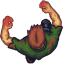
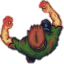
split VectorCollision code & zombie's graph moveStep

diff --git a/src/scenes/MainScene.java b/src/scenes/MainScene.java
@@ -47,12 +47,15 @@ public class MainScene extends Scene {
     private Renderer hpRenderer;
     private ScoreCalculator scoreCal;
     private Effect gameOverEffect;
+    private Delay stateChage;
 
     public MainScene(SceneController sceneController) {
         super(sceneController);
         this.allObjects = new ArrayList<GameObject>();
         this.hpFrameRenderer = new Renderer(0, new int[0], 0, ImagePath.HP[0]);
         this.hpRenderer = new Renderer(0, new int[0], 0, ImagePath.HP[2]); // HP 第三張圖是 debug 用
+        this.stateChage = new Delay(20);
+        this.stateChage.start();
     }
 
     @Override
@@ -103,7 +106,11 @@ public class MainScene extends Scene {
         ammoUpdate();//Ammo必須比敵人早更新
         enemyUpdate();
         for (int i = 0; i < this.allObjects.size(); i++) {
-            this.allObjects.get(i).update();
+            if (i == this.allObjects.size() - 1) {
+                this.allObjects.get(0).update();
+            } else {
+                this.allObjects.get(i + 1).update();
+            }
             if (this.view.isCollision(this.allObjects.get(i))) {
                 if (!(this.view.stillSeeing(this.allObjects.get(i)))) {
                     this.view.saw(this.allObjects.get(i));
@@ -130,7 +137,7 @@ public class MainScene extends Scene {
             float height = Global.UNIT_Y;
             if (this.maps.canDeploy(x, y, width, height)) {
                 Enemy enemy = new Enemy("circle", x, y, 5,
-                        this.actor, 58, ImagePath.ENEMY);
+                        this.actor, 59, ImagePath.ENEMY);
                 this.enemys.add(enemy);
                 this.allObjects.add(enemy);
                 enemy.setAllObject(this.allObjects);
@@ -153,32 +160,33 @@ public class MainScene extends Scene {
 
     //子彈測試更新中
     public void ammoUpdate() {
-        if (Global.mouseState == 1) {
-            boolean create = true;
-            if (this.ammos == null) {
-                Ammo ammo = new Ammo("circle", this.actor.getCenterX() - Global.UNIT_MIN, this.actor.getCenterY() - Global.UNIT_MIN, this.actor, 60, ImagePath.BULLET);
-                this.ammos.add(ammo);
-                this.allObjects.add(ammo);
-                ammo.setAllObjects(this.allObjects);
-            } else {
-                for (int i = 0; i < this.ammos.size(); i++) {
-                    if (this.ammos.get(i).getIsShootOut() == false) {
-                        this.ammos.get(i).setIsShootOut(create);
-                        this.ammos.get(i).setNewStart();
-                        create = false;
-                        break;
-                    } else {
-                        continue;
-                    }
-                }
-                if (create) {
+        if (Global.mouseState) {
+            if (this.stateChage.isTrig()) {
+                boolean create = true;
+                if (this.ammos == null) {
                     Ammo ammo = new Ammo("circle", this.actor.getCenterX() - Global.UNIT_MIN, this.actor.getCenterY() - Global.UNIT_MIN, this.actor, 60, ImagePath.BULLET);
                     this.ammos.add(ammo);
                     this.allObjects.add(ammo);
                     ammo.setAllObjects(this.allObjects);
+                } else {
+                    for (int i = 0; i < this.ammos.size(); i++) {
+                        if (this.ammos.get(i).getIsShootOut() == false) {
+                            this.ammos.get(i).setIsShootOut(create);
+                            this.ammos.get(i).setNewStart();
+                            create = false;
+                            break;
+                        } else {
+                            continue;
+                        }
+                    }
+                    if (create) {
+                        Ammo ammo = new Ammo("circle", this.actor.getCenterX() - Global.UNIT_MIN, this.actor.getCenterY() - Global.UNIT_MIN, this.actor, 60, ImagePath.BULLET);
+                        this.ammos.add(ammo);
+                        this.allObjects.add(ammo);
+                        ammo.setAllObjects(this.allObjects);
+                    }
                 }
             }
-//            Global.mouseState++;
         }
 //        System.out.println("ammo size: "+this.ammos.size());
     }
@@ -348,12 +356,14 @@ public class MainScene extends Scene {
 
         @Override
         public void mouseTrig(MouseEvent e, CommandSolver.MouseState state, long trigTime) {
-            if (state == CommandSolver.MouseState.PRESSED || state == CommandSolver.MouseState.DRAGGED) {
-                Global.mouseState = 1;
+            if (state == CommandSolver.MouseState.PRESSED) {
+                Global.mouseState = true;
+                MainScene.this.stateChage.click();
+            } else if (state == CommandSolver.MouseState.DRAGGED) {
+                Global.mouseState = true;
             } else if (state == CommandSolver.MouseState.CLICKED || state == CommandSolver.MouseState.MOVED || state == CommandSolver.MouseState.RELEASED) {
-                Global.mouseState = 0;
+                Global.mouseState = false;
             }
         }
-
     }
 }

diff --git a/src/util/VectorCollision.java b/src/util/VectorCollision.java
@@ -35,8 +35,8 @@ public class VectorCollision {
     public VectorCollision(GameObject self, float dx, float dy) {
         setSelf(self);
         setDXY(dx, dy);
-        setDivisor(100);
-        setMultiple(3f);
+        setDivisor(20);
+        setMultiple(2f);
         setIsHurt(false);
         setAllObjects(null);
     }
@@ -90,10 +90,6 @@ public class VectorCollision {
         for (int i = 0; i < this.divisor; i++) {
             for (int k = 0; k < this.allObjects.size(); k++) {
                 another = this.allObjects.get(k);
-                if (another.getType().equals(this.self.getType())) {//跳過自己 不判斷
-                    continue;
-                }
-
                 boolean escape = false;
                 for (int z = 0; z < Global.EXCLUDE.length; z++) {//排除型別的判斷 //目前 不和"小地圖"判斷 
                     if (another.getType().equals(Global.EXCLUDE[z])) {
@@ -103,11 +99,21 @@ public class VectorCollision {
                 if (escape) {
                     continue;
                 }
+                if (another.getType().equals(this.self.getType())) {//跳過自己 不判斷
+                    continue;
+                }
                 for (int z = 0; z < Global.INNER.length; z++) {//判斷為在圖形內的 // 目前 Maps 判斷
                     if (another.getType().equals(Global.INNER[z])
                             && this.self.getCollider().innerCollisionToCollision(another.getCollider())) {
-                        this.self.offset(this.self.getCollider().getDx() /* tmp*/, this.self.getCollider().getDy() /* tmp*/);
+                        this.self.offset(this.self.getCollider().getDx(), this.self.getCollider().getDy());
                         return;
+                    }
+                }
+                for (int z = 0; z < Global.INNER.length; z++) {
+                    if (!(another.getType().equals(Global.INNER[z]))) {
+                        if (Math.sqrt(Math.pow(this.allObjects.get(i).getCenterX() - this.self.getCenterX(), 2) + Math.pow(this.allObjects.get(i).getCenterY() - this.self.getCenterY(), 2)) > 300) {
+                            continue;
+                        }
                     }
                 }
                 for (int z = 0; z < Global.INNER.length; z++) {//判斷圖形為各自獨立的個體 // 除了以上的都需要判斷
@@ -132,10 +138,6 @@ public class VectorCollision {
         for (int i = 0; i < this.divisor; i++) {
             for (int k = 0; k < this.allObjects.size(); k++) {
                 another = this.allObjects.get(k);
-                if (another.getType().equals(this.self.getType())) {//跳過自己 不判斷
-                    continue;
-                }
-
                 boolean escape = false;
                 for (int z = 0; z < Global.EXCLUDE.length; z++) {//排除型別的判斷 //目前 不和"小地圖"判斷 
                     if (another.getType().equals(Global.EXCLUDE[z])) {
@@ -145,11 +147,21 @@ public class VectorCollision {
                 if (escape) {
                     continue;
                 }
+                if (another.getType().equals(this.self.getType())) {//跳過自己 不判斷
+                    continue;
+                }
                 for (int z = 0; z < Global.INNER.length; z++) {//判斷為在圖形內的 // 目前 Maps 判斷
                     if (another.getType().equals(Global.INNER[z])
                             && this.self.getCollider().innerCollisionToCollision(another.getCollider())) {
-                        this.self.offset(this.self.getCollider().getDx() /* tmp*/, this.self.getCollider().getDy() /* tmp*/);
+                        this.self.offset(this.self.getCollider().getDx(), this.self.getCollider().getDy());
                         return;
+                    }
+                }
+                for (int z = 0; z < Global.INNER.length; z++) {
+                    if (!(another.getType().equals(Global.INNER[z]))) {
+                        if (Math.sqrt(Math.pow(this.allObjects.get(i).getCenterX() - this.self.getCenterX(), 2) + Math.pow(this.allObjects.get(i).getCenterY() - this.self.getCenterY(), 2)) > 300) {
+                            continue;
+                        }
                     }
                 }
                 for (int z = 0; z < Global.INNER.length; z++) {//判斷圖形為各自獨立的個體 // 除了以上的都需要判斷

diff --git a/src/gameobj/Enemy.java b/src/gameobj/Enemy.java
@@ -22,6 +22,8 @@ import util.VectorCollision;
 public class Enemy extends GameObject {
 
     private RendererToRotate renderer;//旋轉圖渲染器
+    private Delay imageDelay;
+    private int imageState;
     //血量控制
     private GameObject target;
     private Delay targetHp;
@@ -47,12 +49,13 @@ public class Enemy extends GameObject {
         setAngle();
         this.renderer = new RendererToRotate(path, this, getAngle());
         setMoveSpeedDetail(moveSpeed);//裡面有 扣血 & 移動 的時間設定
-        this.averageSpeed = new AverageSpeed(this.getCenterX(), this.getCenterY(), this.target.getCenterX(), this.target.getCenterY(), 55, true);
+        this.averageSpeed = new AverageSpeed(this.getCenterX(), this.getCenterY(), this.target.getCenterX(), this.target.getCenterY(), 50, true);
         super.paintPriority = 1;
         this.vectorMove = new VectorCollision(this, 0, 0);
-        this.vectorMove.setMultiple(4f);
+        this.vectorMove.setMultiple(1f);
         this.vectorMove.setDivisor(5);
         this.setType("Enemy");
+        this.imageState = 0;
     }
 
     //目標資料
@@ -87,9 +90,11 @@ public class Enemy extends GameObject {
         this.moveSpeed = limitRange(moveSpeed);
         this.actMoveSpeed = 60 - this.moveSpeed;
         this.moveDelay = new Delay(this.actMoveSpeed);
-        this.targetHp = new Delay(10);
+        this.targetHp = new Delay(30);
+        this.imageDelay = new Delay(10);
         this.targetHp.start();
         this.moveDelay.start();
+        this.imageDelay.start();
     }
 
     private float limitRange(float range) {
@@ -123,12 +128,16 @@ public class Enemy extends GameObject {
         this.averageSpeed.setGoalCenterX(this.target.getCenterX());
         this.averageSpeed.setGoalCenterY(this.target.getCenterY());
     }
+    public final int[] normalStep = {0, 1, 2, 1};
 
     public void move() {
-        if (!this.getCollider().intersects(this.target.getCollider())) {
+        if (this.moveDelay.isTrig()) {
             this.setAngle();
             this.renderer.setAngle(this.getAngle());
             setAverageSpeed();
+            if (this.imageDelay.isTrig()) {
+                this.renderer.setState(this.normalStep[this.imageState++ % 4]);
+            }
             if (this.targetHp.isTrig()) {
                 this.vectorMove.setIsHurt(true);
             }//移動前 扣血 啟動
@@ -140,9 +149,7 @@ public class Enemy extends GameObject {
     @Override
     public void update() {
         if (this.getHp() >= 1) {
-            if (this.moveDelay.isTrig()) {
-                move();
-            }
+            move();
         } else {
             this.setXY(-100, -100);
         }

diff --git a/src/graph/Circle.java b/src/graph/Circle.java
@@ -40,7 +40,7 @@ public class Circle extends Graph {
         float dx = super.centerX() - x;
         float dy = super.centerY() - y;
         double distance = Math.sqrt(dx * dx + dy * dy);
-        if (distance < (this.r + r)) {
+        if (distance <= (this.r + r)) {
             super.setDx((dx < 0) ? -1 : 1);
             super.setDy((dy < 0) ? -1 : 1);
             return true;
@@ -61,9 +61,6 @@ public class Circle extends Graph {
 
     @Override
     public boolean intersects(float left, float top, float right, float bottom) {
-        if (super.centerX() > left && super.centerX() < right && super.centerY() > top && super.centerY() < bottom) {
-            return true;
-        }
         if (super.centerX() < left || super.centerX() > right) {
             float dx;
             if (super.centerX() < left) {
@@ -81,7 +78,7 @@ public class Circle extends Graph {
             }
             float dy = super.centerY() - tmp;
             double distance = Math.sqrt(dx * dx + dy * dy);
-            if (distance < r()) {
+            if (distance <= r()) {
                 super.setDx((dx < 0) ? -1 : 1);
                 super.setDy(0);
                 return true;
@@ -103,11 +100,14 @@ public class Circle extends Graph {
             }
             float dx = super.centerX() - tmp;
             double distance = Math.sqrt(dx * dx + dy * dy);
-            if (distance < r()) {
+            if (distance <= r()) {
                 super.setDx(0);
                 super.setDy((dy < 0) ? -1 : 1);
                 return true;
             }
+        }
+        if (super.centerX() > left && super.centerX() < right && super.centerY() > top && super.centerY() < bottom) {
+            return true;
         }
         super.setDx(0);
         super.setDy(0);

diff --git a/src/graph/Rect.java b/src/graph/Rect.java
@@ -26,9 +26,6 @@ public class Rect extends Graph {
 
     @Override
     public boolean intersects(float x, float y, float r) {
-        if (x > left() && x < right() && y > top() && y < bottom()) {
-            return true;
-        }
         if (x < left() || x > right()) {
             float dx;
             if (x < left()) {
@@ -46,7 +43,7 @@ public class Rect extends Graph {
             }
             float dy = y - tmp;
             double distance = Math.sqrt(dx * dx + dy * dy);
-            if (distance < r) {
+            if (distance <= r) {
                 super.setDx(((left() + right()) / 2 - x < 0) ? -1 : 1);
                 super.setDy(((top() + bottom()) / 2 - y < 0) ? -1 : 1);
                 return true;
@@ -68,11 +65,14 @@ public class Rect extends Graph {
                 dy = y - bottom();
             }
             double distance = Math.sqrt(dx * dx + dy * dy);
-            if (distance < r) {
+            if (distance <= r) {
                 super.setDx(((left() + right()) / 2 - x < 0) ? -1 : 1);
                 super.setDy(((top() + bottom()) / 2 - y < 0) ? -1 : 1);
                 return true;
             }
+        }
+        if (x > left() && x < right() && y > top() && y < bottom()) {
+            return true;
         }
         super.setDx(0);
         super.setDy(0);

diff --git a/src/util/Global.java b/src/util/Global.java
@@ -54,8 +54,8 @@ public class Global {
     public static final int UP_LEFT = UP + LEFT;
     public static final int DOWN_LEFT = DOWN + LEFT;
     //槍的模式
-    public static final int KEY_1 = 21;
-    public static final int KEY_2 = 22;
+    public static final int KEY_1 = 25;
+    public static final int KEY_2 = 10;
     public static final char KEY_G = 'g';
     // 步伐
     public static final int[] STEPS_WALK_NORMAL = {0, 1, 2, 1};
@@ -93,8 +93,8 @@ public class Global {
     //滑鼠當前的相對座標
     public static float mapMouseX;
     public static float mapMouseY;
-    //測試用滑鼠狀態
-    public static float mouseState;
+    //滑鼠狀態
+    public static boolean mouseState;
     // HP 圖案資訊
     public static final int HP_FRAME_WIDTH = 199;
     public static final int HP_FRAME_HEIGHT = 31;

diff --git a/src/gameobj/Ammo.java b/src/gameobj/Ammo.java
@@ -43,7 +43,7 @@ public class Ammo extends GameObject {
         setAngle();
         this.renderer = new RendererToRotate(path, this, getAngle());
         setMoveSpeedDetail(moveSpeed);//初始化移動應為最大值，暫時不該限制delay
-        this.averageSpeed = new AverageSpeed(this.getCenterX(), this.getCenterY(), Global.mapMouseX, Global.mapMouseY, 98, true);//30為子彈的移動距離值
+        this.averageSpeed = new AverageSpeed(this.getCenterX(), this.getCenterY(), Global.mapMouseX, Global.mapMouseY, 95, true);//30為子彈的移動距離值
         setIsShootOut(true);
         super.paintPriority = 1; // 畫圖順序僅次於主角，此順序可討論
         setType("Ammo");

diff --git a/src/util/MapGenerator.java b/src/util/MapGenerator.java
@@ -114,7 +114,7 @@ public class MapGenerator {
     }
 
     private void pattern_1(Map newMap) { // 十字街道加障礙物
-        int tmp = 3;
+        int tmp = 5;
         newMap.getBuildings().add(new Building("rect", 0f, 0f, Global.SCREEN_X / tmp, Global.SCREEN_Y / tmp, ImagePath.BUILDING, 0));
         newMap.getBuildings().add(new Building("rect", (Global.SCREEN_X / 3 * 2), 0f, Global.SCREEN_X / tmp, Global.SCREEN_Y / tmp, ImagePath.BUILDING, 0));
         newMap.getBuildings().add(new Building("rect", 0f, (Global.SCREEN_Y / 3 * 2), Global.SCREEN_X / tmp, Global.SCREEN_Y / tmp, ImagePath.BUILDING, 0));

diff --git a/src/util/Delay.java b/src/util/Delay.java
@@ -17,7 +17,7 @@ public class Delay {
 
     public Delay(float delayFrame) {
         this.delayFrame = delayFrame;
-        this.counter = 0;
+        this.counter = this.delayFrame;
         this.isPause = true;
     }
 
@@ -41,6 +41,9 @@ public class Delay {
 
     public void pause() {
         this.isPause = true;
+    }
+    public void click(){
+        this.counter = this.delayFrame;
     }
 
     public boolean isTrig() {
